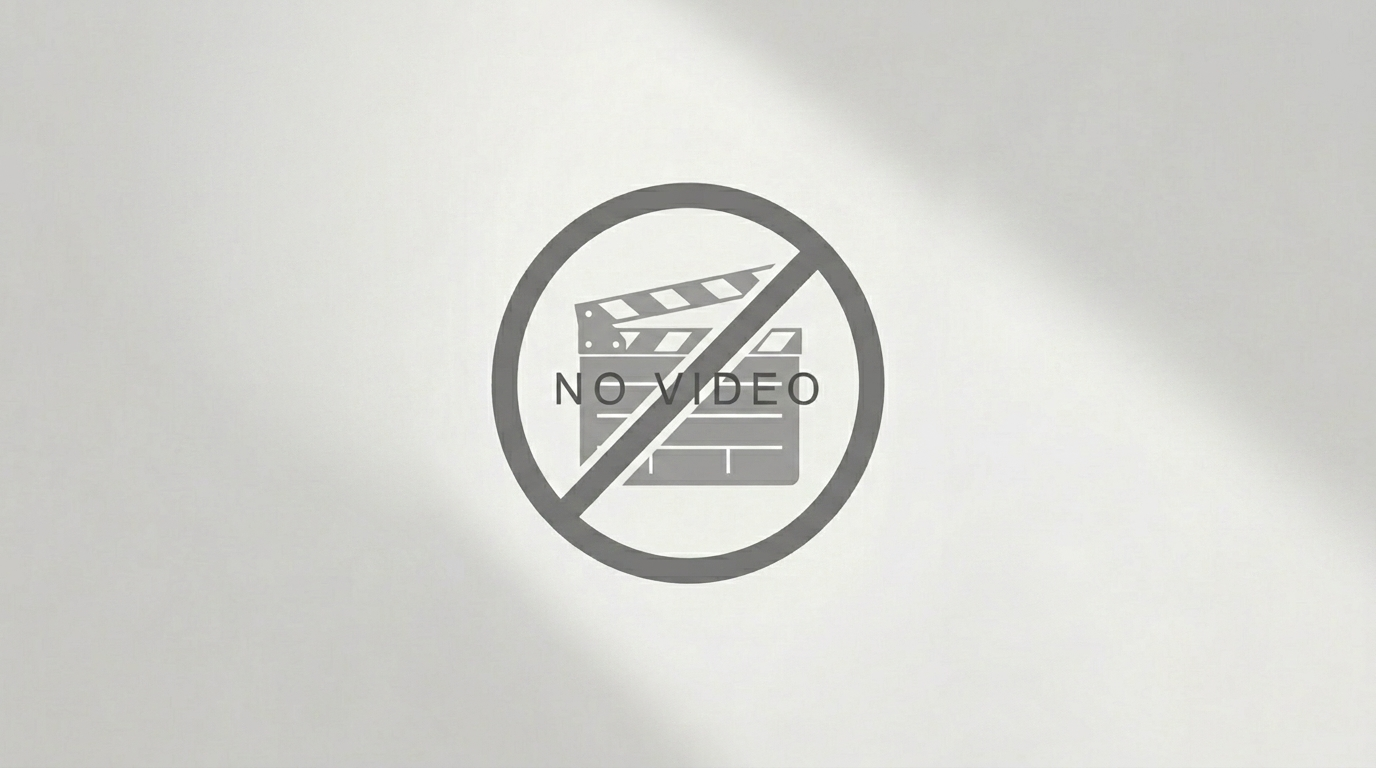
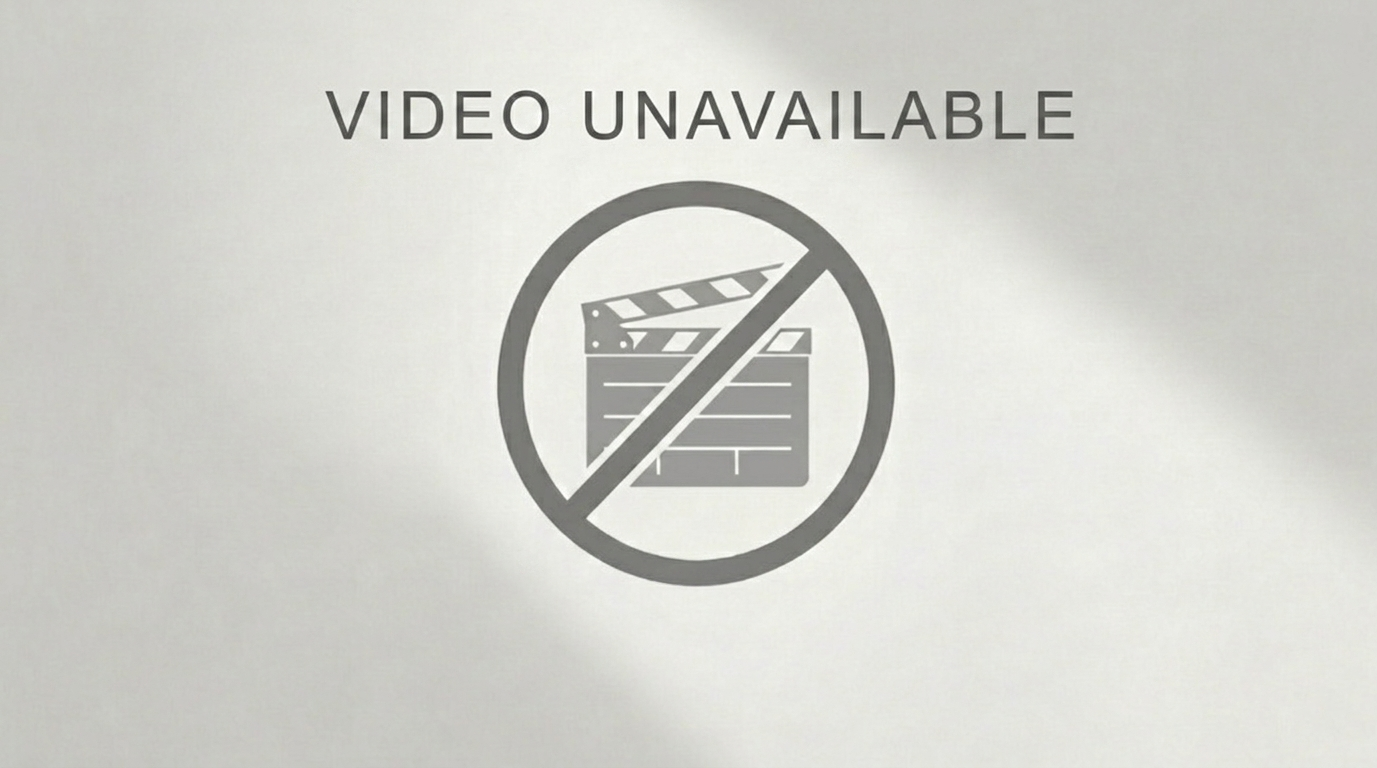
feat: changed the video unavailable placeholder

Changed region(s): [[0.3438, 0.2188, 0.6562, 0.7812], [0.2188, 0.0938, 0.7812, 0.1875]]

diff --git a/sandbox-001/src/app/features/movies-and-shows/components/media-player/media-player.scss b/sandbox-001/src/app/features/movies-and-shows/components/media-player/media-player.scss
@@ -90,20 +90,4 @@
             align-items: center;
         }
 
-        .overlay-text {
-            position: absolute;
-            display: flex;
-            top: 0;
-            left: 0;
-            width: 100%;
-            height: 100%;
-            margin: 0;
-            padding: 3cqi 0;
-            font-size: 2cqi;
-            z-index: 2;
-            justify-content: center;
-            align-items: baseline;
-            color: var(--mat-sys-on-secondary-fixed-variant);
-        }
-
     }

diff --git a/sandbox-001/src/app/features/movies-and-shows/components/media-player/media-player.html b/sandbox-001/src/app/features/movies-and-shows/components/media-player/media-player.html
@@ -77,20 +77,18 @@
             }
             @else {
                 <div class="media-container">
-                    <img class="no-video" src="/no_video_no_text.png">
-                    <h5 class="overlay-text">VIDEO UNAVAILABLE</h5>
+                    <img class="no-video" src="/no_video.png">
                 </div>
             }
         }
         @else if (hasAttemptedGettingVidsrcMedia() && !hasGottenVidsrcMedia()) {
             <div class="media-container">
-                <img class="no-video" src="/no_video_no_text.png">
-                <h5 class="overlay-text">VIDEO UNAVAILABLE</h5>
+                <img class="no-video" src="/no_video.png">
             </div>
         }
         @else {
             <div class="media-container">
-                <img class="no-video blackout" src="/no_video_no_text.png">
+                <img class="no-video blackout" src="/no_video.png">
                 <div class="overlay">
                     <mat-spinner ></mat-spinner>
                 </div>